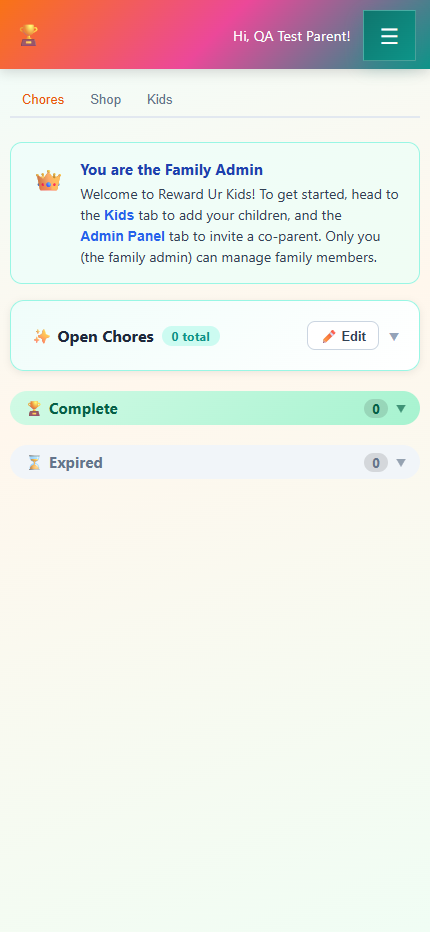
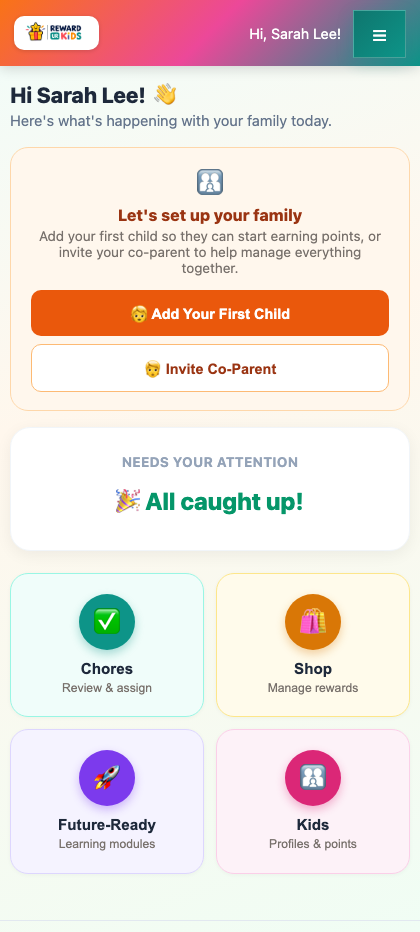
Update the visual walkthrough blog with this session's new UI
The post was screenshotted in September, before co-guardian email
invites, the guided tour, the home-screen Continue Learning/This Week
widgets, and the persistent footer existed -- replaced the stale
first-dashboard and admin-panel screenshots, added four new ones
(invite-by-email close-up, guardian home with This Week, the guided
tour spotlighting a real menu item, and a kid home screen), and wrote
a new Guided Tour section plus an invite-by-email step in For
Guardians. Also added a kid-home screenshot to For Kids, which never
had one.

Verified live: no broken image links, all new sections render with
the right screenshots and captions.

diff --git a/frontend/src/components/Blogs.jsx b/frontend/src/components/Blogs.jsx
@@ -426,7 +426,7 @@ const POSTS = [
           { type: 'image', step: 3, src: '/blog-images/how-to-use/registration/account-activated.png', alt: 'Account activated screen', caption: "One click activates it — you're ready to sign in." },
           { type: 'image', step: 4, src: '/blog-images/how-to-use/registration/new-family-picker.png', alt: 'New family profile picker', caption: 'A temporary PIN is generated for your own profile too.' },
           { type: 'image', step: 5, src: '/blog-images/how-to-use/registration/new-family-pin-entry.png', alt: 'PIN entry for a new family', caption: 'Unlock it with that PIN.' },
-          { type: 'image', step: 6, src: '/blog-images/how-to-use/registration/first-dashboard.png', alt: 'First dashboard view', caption: "You're in — ready to add your first kid and chore." },
+          { type: 'image', step: 6, src: '/blog-images/how-to-use/registration/first-dashboard.png', alt: 'First dashboard view', caption: "You're in — the home screen walks you straight into adding your first child or inviting a co-parent." },
         ],
       },
       {
@@ -437,13 +437,23 @@ const POSTS = [
           { type: 'image', step: 1, src: '/blog-images/how-to-use/sign-in.png', alt: 'Sign in screen', caption: 'Sign in with your account — one login for the whole family.' },
           { type: 'image', step: 2, src: '/blog-images/how-to-use/profile-picker.png', alt: 'Profile picker screen', caption: 'Pick a profile. Everyone in the family gets their own.' },
           { type: 'image', step: 3, src: '/blog-images/how-to-use/pin-entry.png', alt: 'PIN entry screen', caption: 'Unlock it with a private 6-digit PIN.' },
-          { type: 'image', step: 4, src: '/blog-images/how-to-use/guardian-chores.png', alt: 'Guardian chores tab', caption: 'The Chores tab shows everything open, pending, and complete.' },
-          { type: 'image', step: 5, src: '/blog-images/how-to-use/add-chore-form.png', alt: 'Add chore form', caption: 'Adding a chore takes seconds — a title, an emoji, and a point value.' },
-          { type: 'image', step: 6, src: '/blog-images/how-to-use/guardian-kids-redesign.png', alt: 'Guardian kids tab', caption: 'Add your kids and manage them from the Kids tab — PIN, birthday, bonuses, and reports, all in one place.' },
-          { type: 'image', step: 7, src: '/blog-images/how-to-use/guardian-kids-birthday.png', alt: 'Editing a kid\'s birth month and year', caption: "Set a kid's birth month and year once — it's what the app uses to show them age-appropriate content." },
-          { type: 'image', step: 8, src: '/blog-images/how-to-use/guardian-shop.png', alt: 'Guardian shop tab', caption: 'Stock the Shop with rewards worth working for.' },
-          { type: 'image', step: 9, src: '/blog-images/how-to-use/add-reward-form.png', alt: 'Add shop item form', caption: 'Adding a reward works the same way — name it, price it, done.' },
-          { type: 'image', step: 10, src: '/blog-images/how-to-use/admin-panel.png', alt: 'Admin panel screen', caption: 'Manage your account, PIN, and co-guardian from the Admin Panel.' },
+          { type: 'image', step: 4, src: '/blog-images/how-to-use/guardian-home-this-week.png', alt: 'Guardian home screen with This Week summary', caption: "Home sums up what needs your attention and, once your kids are earning, a This Week snapshot of how each one's doing." },
+          { type: 'image', step: 5, src: '/blog-images/how-to-use/guardian-chores.png', alt: 'Guardian chores tab', caption: 'The Chores tab shows everything open, pending, and complete.' },
+          { type: 'image', step: 6, src: '/blog-images/how-to-use/add-chore-form.png', alt: 'Add chore form', caption: 'Adding a chore takes seconds — a title, an emoji, and a point value. Check the "recurring" box to have it repeat daily, weekly, or monthly.' },
+          { type: 'image', step: 7, src: '/blog-images/how-to-use/guardian-kids-redesign.png', alt: 'Guardian kids tab', caption: 'Add your kids and manage them from the Kids tab — PIN, birthday, bonuses, and reports, all in one place.' },
+          { type: 'image', step: 8, src: '/blog-images/how-to-use/guardian-kids-birthday.png', alt: 'Editing a kid\'s birth month and year', caption: "Set a kid's birth month and year once — it's what the app uses to show them age-appropriate content." },
+          { type: 'image', step: 9, src: '/blog-images/how-to-use/guardian-shop.png', alt: 'Guardian shop tab', caption: 'Stock the Shop with rewards worth working for.' },
+          { type: 'image', step: 10, src: '/blog-images/how-to-use/add-reward-form.png', alt: 'Add shop item form', caption: 'Adding a reward works the same way — name it, price it, done.' },
+          { type: 'image', step: 11, src: '/blog-images/how-to-use/admin-panel.png', alt: 'Admin panel screen', caption: 'Manage your account and PIN from the Admin Panel — and this is also where you add a co-guardian, replay the guided tour, and turn Tip of the Day on or off.' },
+          { type: 'image', step: 12, src: '/blog-images/how-to-use/coguardian-invite-by-email.png', alt: 'Invite a co-guardian by email', caption: "Add a co-guardian two ways: set up their name and PIN yourself on this device, or invite them by email so they set up their own from their own phone. If they ever lose that device, you can resend access without starting over." },
+        ],
+      },
+      {
+        type: 'section',
+        icon: '🧭',
+        title: 'Guided Tour',
+        items: [
+          { type: 'image', step: 1, src: '/blog-images/how-to-use/guided-tour.png', alt: 'Guided tour spotlighting the Switch Profile menu item', caption: "New guardians get an optional walkthrough on their first login — it spotlights real buttons and menus as it goes, like here where it shows exactly where \"Switch Profile\" lives. Replay it anytime from the Admin Panel." },
         ],
       },
       {
@@ -464,10 +474,11 @@ const POSTS = [
         icon: '🧒',
         title: 'For Kids',
         items: [
-          { type: 'image', step: 1, src: '/blog-images/how-to-use/kid-chores.png', alt: 'Kid chores tab', caption: 'Kids see their own chores the moment they log in.' },
-          { type: 'image', step: 2, src: '/blog-images/how-to-use/kid-available-chores.png', alt: 'Kid available chores list', caption: 'They open the list and see exactly what they can claim, and for how many points.' },
-          { type: 'image', step: 3, src: '/blog-images/how-to-use/kid-shop.png', alt: 'Kid shop tab', caption: 'They spend their points in the Shop...' },
-          { type: 'image', step: 4, src: '/blog-images/how-to-use/kid-wallet.png', alt: 'Kid wallet tab', caption: '...and watch it all add up in their Wallet.' },
+          { type: 'image', step: 1, src: '/blog-images/how-to-use/kid-home.png', alt: 'Kid home screen', caption: "Their own home screen: points so far, a badge on My Tasks when something's waiting, and a Continue Learning card that drops them straight back into whichever Future-Ready lesson they started." },
+          { type: 'image', step: 2, src: '/blog-images/how-to-use/kid-chores.png', alt: 'Kid chores tab', caption: 'Kids see their own chores the moment they log in.' },
+          { type: 'image', step: 3, src: '/blog-images/how-to-use/kid-available-chores.png', alt: 'Kid available chores list', caption: 'They open the list and see exactly what they can claim, and for how many points.' },
+          { type: 'image', step: 4, src: '/blog-images/how-to-use/kid-shop.png', alt: 'Kid shop tab', caption: 'They spend their points in the Shop...' },
+          { type: 'image', step: 5, src: '/blog-images/how-to-use/kid-wallet.png', alt: 'Kid wallet tab', caption: '...and watch it all add up in their Wallet.' },
         ],
       },
     ],
